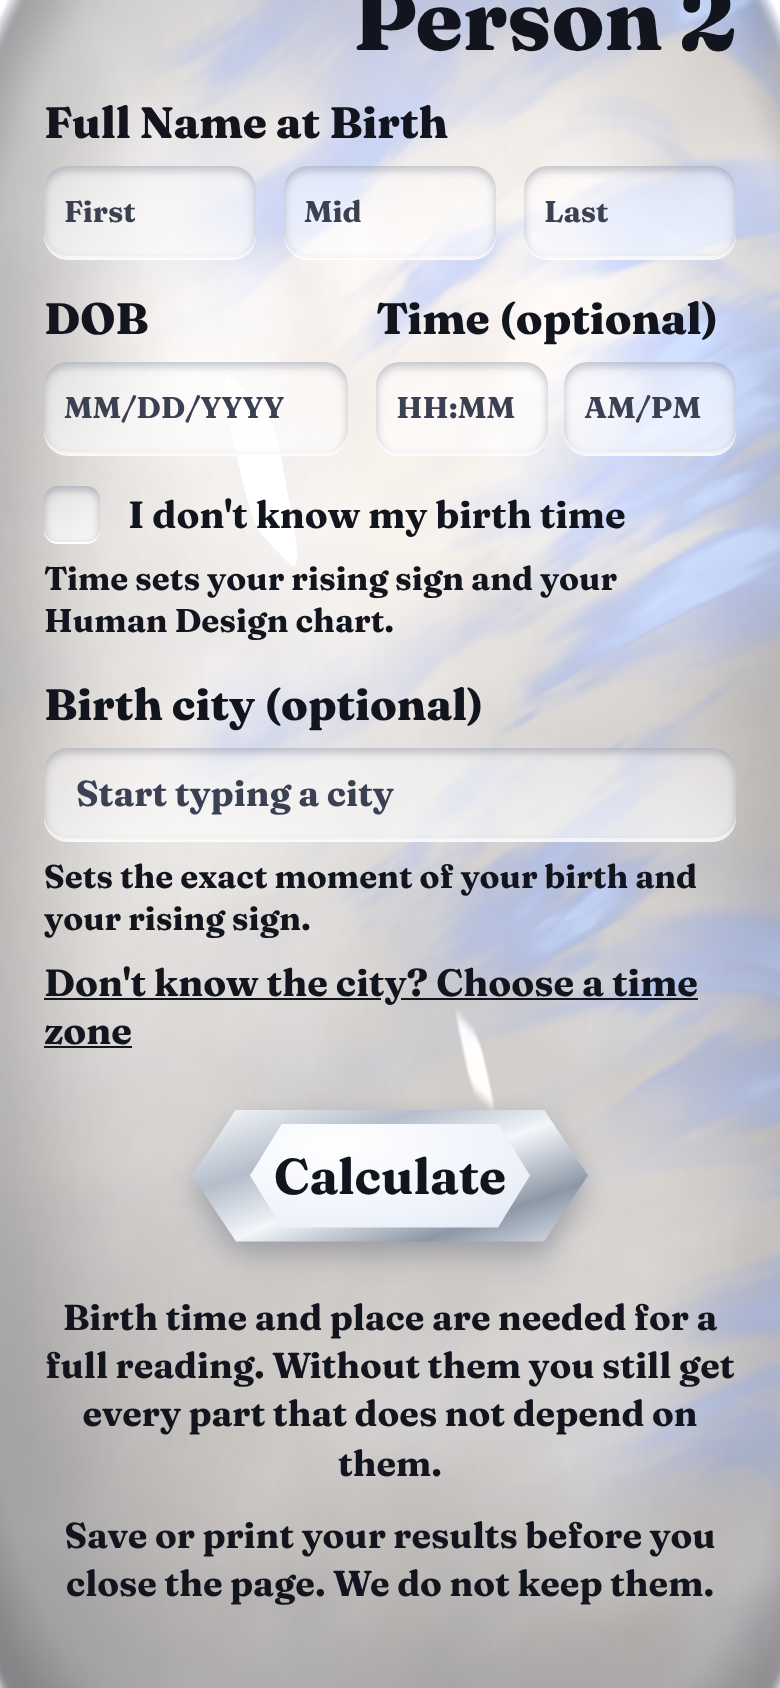
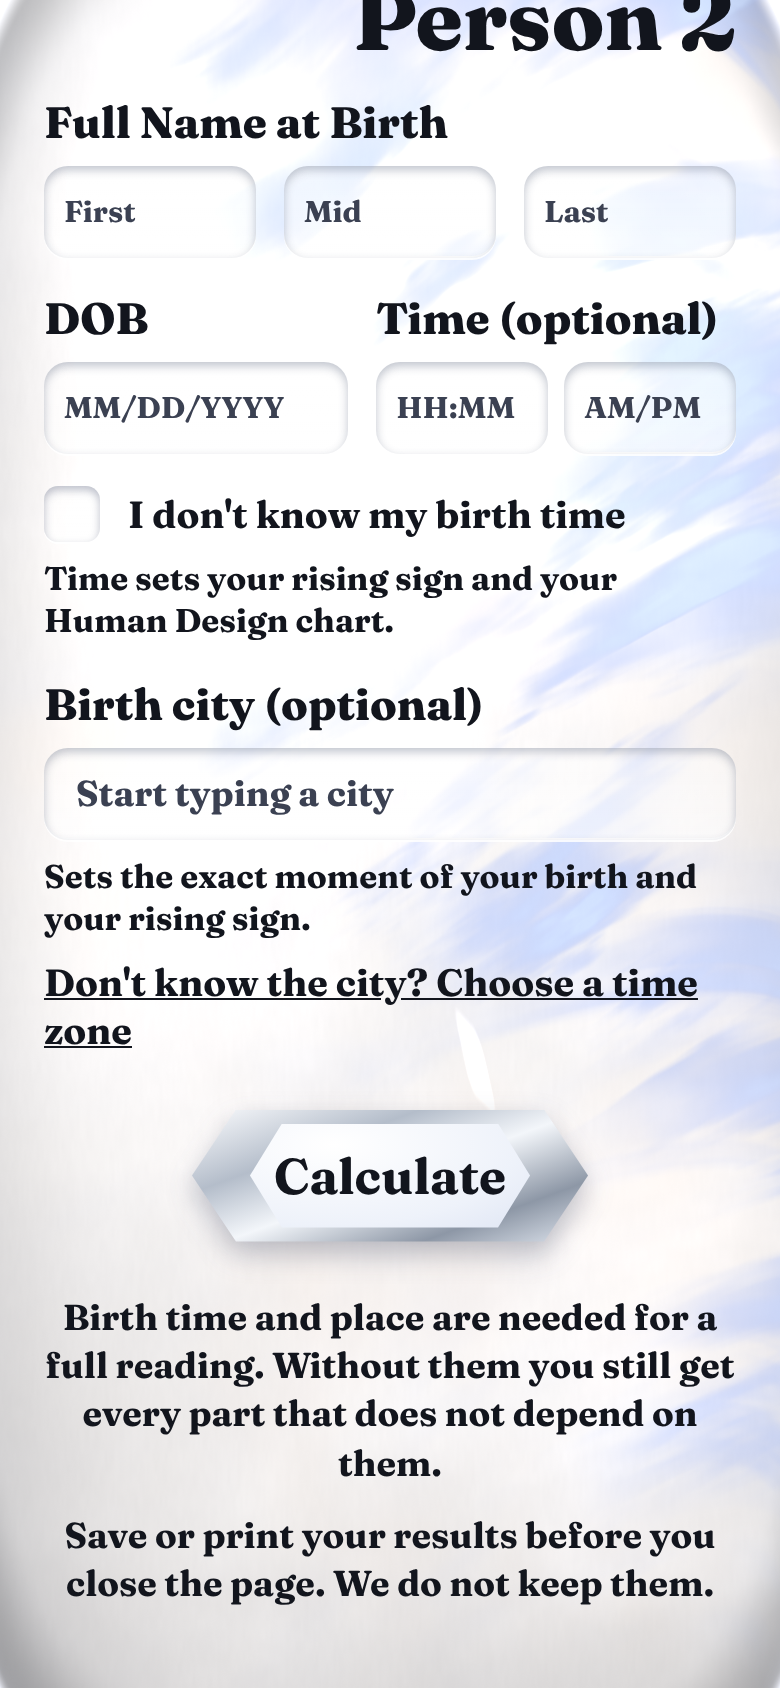
Moonstone: brighter, less grey
Claude-Session: https://claude.ai/code/session_01DRAcaZvypgnSaCTMdJvvGx

diff --git a/stone/stone-full.html b/stone/stone-full.html
@@ -60,13 +60,13 @@ void main(){
     }
     // fine grain (irregular, low contrast) so the interior reads as crystal not haze
     float grain=vn(vec3(p*vec2(310.,70.),2.))*.5+vn(vec3(p*vec2(160.,38.),7.))*.5;
-    vec3 body=vec3(.925,.905,.885)*(.985+.015*grain);
-    body=mix(body,vec3(.80,.80,.82),clamp(cloud,0.,1.)*.50);
-    float wm=smoothstep(.45,.75,fbm(vec3(p*2.2,4.)));body=mix(body,vec3(.95,.90,.84),wm*.35);
-    float dif=clamp(dot(N,Ld)*.7+.45,0.,1.);body*=.61+.34*dif;
-    body*=.88+.14*smoothstep(-.4,.5,(-p.x+p.y)*1.1);
+    vec3 body=vec3(.972,.958,.945)*(.985+.015*grain);
+    body=mix(body,vec3(.90,.90,.93),clamp(cloud,0.,1.)*.45);
+    float wm=smoothstep(.45,.75,fbm(vec3(p*2.2,4.)));body=mix(body,vec3(.995,.945,.90),wm*.45);
+    float dif=clamp(dot(N,Ld)*.7+.45,0.,1.);body*=.76+.26*dif;
+    body*=.93+.09*smoothstep(-.4,.5,(-p.x+p.y)*1.1);
     // thin edge: glassy, takes on the surface colour and a darker total-internal-reflection ring
-    body*=1.-.20*smoothstep(.55,1.,d);
+    body*=1.-.09*smoothstep(.6,1.,d);
     float rim=smoothstep(.72,1.,d);
     body=mix(body,bgc*.88,rim*rim*.38);
     body*=1.-.22*smoothstep(.88,.985,d)*(1.-smoothstep(.985,1.,d));
